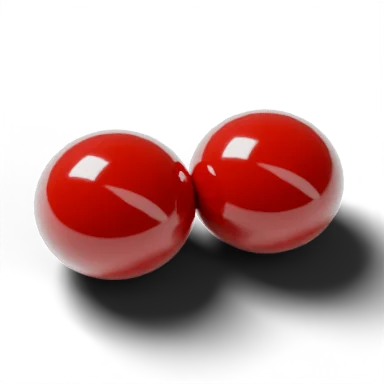
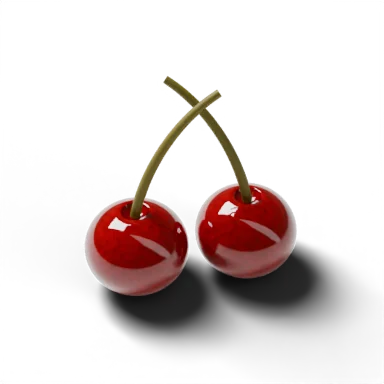
Plätzchen-Simulator: draw icing, smooth glaze, piles stay on the cookie
- icing and chocolate glaze are piped with the finger (tap to switch on, or drag up
  from the bar); the line sticks to the cookie and toppings, not to the paper
- the glaze is built on a 0.5 mm grid with a rounded rim and a levelled top
- toppings drop closer together and moving pieces are nudged towards the middle
- glacé cherries: deeper colour and a stalk; googly eyes and tinsel removed

Claude-Session: https://claude.ai/code/session_01TpW8y2zVzk7uDm7xWED879

diff --git a/plaetzchen/game.js b/plaetzchen/game.js
@@ -5,6 +5,7 @@ import * as THREE from 'three';
 import { GLTFLoader } from 'three/addons/loaders/GLTFLoader.js';
 import { OrbitControls } from 'three/addons/controls/OrbitControls.js';
 import { RoomEnvironment } from 'three/addons/environments/RoomEnvironment.js';
+import { mergeGeometries } from 'three/addons/utils/BufferGeometryUtils.js';
 import RAPIER from 'https://cdn.jsdelivr.net/npm/@dimforge/rapier3d-compat@0.14.0/rapier.es.js';
 import * as store from '../js/store.js';
 
@@ -27,7 +28,7 @@ const TXT = {
   yours: ['Dein Plätzchen', 'Your cookie'], post: ['An die Pinnwand', 'Pin it to the wall'], name: ['Dein Vorname', 'Your first name'],
   posted: ['Hängt an der Pinnwand', 'It’s on the wall'], no: ['Plätzchen Nr.', 'Cookie no.'], count: [n => `${n} Plätzchen bisher`, n => `${n} cookies so far`],
   empty: ['Noch keine Plätzchen. Deins wäre das erste.', 'No cookies yet. Yours could be the first.'], err: ['Hat nicht geklappt. Nochmal?', 'That didn’t work. Try again?'],
-  classic: ['Klassisch', 'Classic'], glaze: ['Welche Glasur?', 'Which glaze?'], none: ['Ohne', 'None'], lila: ['Lila', 'Lilac'], weiss: ['Weiß', 'White'], rosa: ['Rosa', 'Pink'], schoko: ['Schoko', 'Chocolate'], schwarz: ['Schwarz', 'Black'], weird: ['Schräg', 'Weird'], sending: ['Wird aufgehängt …', 'Pinning …'],
+  classic: ['Klassisch', 'Classic'], draw: ['Guss mit dem Finger zeichnen. Nochmal antippen zum Beenden.', 'Draw icing with your finger. Tap it again to stop.'], glaze: ['Welche Glasur?', 'Which glaze?'], none: ['Ohne', 'None'], lila: ['Lila', 'Lilac'], weiss: ['Weiß', 'White'], rosa: ['Rosa', 'Pink'], schoko: ['Schoko', 'Chocolate'], schwarz: ['Schwarz', 'Black'], weird: ['Schräg', 'Weird'], sending: ['Wird aufgehängt …', 'Pinning …'],
 };
 const t = (k, ...a) => { const v = TXT[k][EN ? 1 : 0]; return typeof v === 'function' ? v(...a) : v; };
 document.documentElement.lang = EN ? 'en' : 'de';
@@ -140,11 +141,12 @@ function makeObj(p) { const o = p.node.clone(); o.scale.setScalar(S); o.quaterni
 const N = 200, C = 0.1, X0 = -(N - 1) * C / 2;            // 20 × 20 cm around the middle
 const gx = i => X0 + i * C, cellOf = v => Math.round((v - X0) / C);
 const cookieH = new Float32Array(N * N), staticH = new Float32Array(N * N);
-let field = null, frost = null, staticTop = 0;
+let field = null, frost = null, staticTop = 0, cookieR = 0;
 const liquids = [];                                       // { mesh, ks, top, frozen, anim }
 const _a = new THREE.Vector3(), _b = new THREE.Vector3(), _c = new THREE.Vector3();
 // Highest point of a mesh in every grid cell.
-function raster(obj, H) {
+const GRID = { x0: X0, z0: X0, c: C, nx: N, nz: N };
+function raster(obj, H, g = GRID) {
   obj.updateMatrixWorld(true);
   obj.traverse(m => {
     if (!m.isMesh || m.isInstancedMesh) return;
@@ -154,13 +156,13 @@ function raster(obj, H) {
       _b.fromBufferAttribute(pos, ix ? ix.getX(t + 1) : t + 1).applyMatrix4(m.matrixWorld);
       _c.fromBufferAttribute(pos, ix ? ix.getX(t + 2) : t + 2).applyMatrix4(m.matrixWorld);
       const d = (_b.z - _c.z) * (_a.x - _c.x) + (_c.x - _b.x) * (_a.z - _c.z); if (Math.abs(d) < 1e-9) continue;
-      const i0 = Math.max(0, Math.ceil((Math.min(_a.x, _b.x, _c.x) - X0) / C)), i1 = Math.min(N - 1, Math.floor((Math.max(_a.x, _b.x, _c.x) - X0) / C));
-      const j0 = Math.max(0, Math.ceil((Math.min(_a.z, _b.z, _c.z) - X0) / C)), j1 = Math.min(N - 1, Math.floor((Math.max(_a.z, _b.z, _c.z) - X0) / C));
+      const i0 = Math.max(0, Math.ceil((Math.min(_a.x, _b.x, _c.x) - g.x0) / g.c)), i1 = Math.min(g.nx - 1, Math.floor((Math.max(_a.x, _b.x, _c.x) - g.x0) / g.c));
+      const j0 = Math.max(0, Math.ceil((Math.min(_a.z, _b.z, _c.z) - g.z0) / g.c)), j1 = Math.min(g.nz - 1, Math.floor((Math.max(_a.z, _b.z, _c.z) - g.z0) / g.c));
       for (let i = i0; i <= i1; i++) for (let j = j0; j <= j1; j++) {
-        const x = gx(i), z = gx(j);
+        const x = g.x0 + i * g.c, z = g.z0 + j * g.c;
         const w1 = ((_b.z - _c.z) * (x - _c.x) + (_c.x - _b.x) * (z - _c.z)) / d, w2 = ((_c.z - _a.z) * (x - _c.x) + (_a.x - _c.x) * (z - _c.z)) / d, w3 = 1 - w1 - w2;
         if (w1 < -1e-4 || w2 < -1e-4 || w3 < -1e-4) continue;
-        const y = w1 * _a.y + w2 * _b.y + w3 * _c.y, k = i * N + j; if (y > H[k]) H[k] = y;
+        const y = w1 * _a.y + w2 * _b.y + w3 * _c.y, k = i * g.nz + j; if (y > H[k]) H[k] = y;
       }
     }
   });
@@ -201,7 +203,7 @@ function sheet(i0, i1, j0, j1, base, mat) {
   };
   return s;
 }
-const glossy = col => new THREE.MeshPhysicalMaterial({ color: col, roughness: .26, clearcoat: .7, clearcoatRoughness: .25, sheen: .3, sheenColor: new THREE.Color(0xffffff) });
+const glossy = col => new THREE.MeshPhysicalMaterial({ color: col, roughness: .3, clearcoat: .6, clearcoatRoughness: .3 });
 
 // ---------- the cookie and its glaze ----------
 async function setCookie(id) {
@@ -211,91 +213,126 @@ async function setCookie(id) {
   const b = new THREE.Box3().setFromObject(obj); obj.position.set(-(b.min.x + b.max.x) / 2, -b.min.y + 0.02, -(b.min.z + b.max.z) / 2); obj.updateMatrixWorld(true);
   cookieH.fill(0); raster(obj, cookieH);
   cookie = { obj }; rebuildStatic(); stackTop = staticTop;
+  const bb = new THREE.Box3().setFromObject(obj); cookieR = Math.max(bb.max.x - bb.min.x, bb.max.z - bb.min.z) / 2;
   goView('angle');
 }
 const GLAZES = [['none', null], ['lila', '#B78CFF'], ['weiss', '#F4F0E8'], ['rosa', '#F3B4C8'], ['schoko', '#3E2214'], ['schwarz', '#151515']];
+// The glaze is built on its own fine grid (0.5 mm), so the rim is smooth and rounded like real icing,
+// and its top is levelled instead of following every bump of the dough.
 function setGlaze(col) {
-  if (frost) { scene.remove(frost.mesh); frost = null; }
-  if (col) {
-    let top = 0; for (const v of cookieH) if (v > top) top = v;
-    // the flat top of the cookie, and how far each cell is from its edge (in cells)
-    const inside = new Uint8Array(N * N), dist = new Float32Array(N * N).fill(1e9);
-    let i0 = N, i1 = 0, j0 = N, j1 = 0;
-    for (let i = 0; i < N; i++) for (let j = 0; j < N; j++) {
-      const k = i * N + j; if (cookieH[k] > top - 0.3 && cookieH[k] > 0.1) { inside[k] = 1; i0 = Math.min(i0, i); i1 = Math.max(i1, i); j0 = Math.min(j0, j); j1 = Math.max(j1, j); } else dist[k] = 0;
+  if (frost) { scene.remove(frost.mesh); frost.mesh.geometry.dispose(); frost = null; }
+  if (col && cookie) {
+    const bb = new THREE.Box3().setFromObject(cookie.obj), FC = 0.05;
+    const g = { x0: bb.min.x - 0.3, z0: bb.min.z - 0.3, c: FC, nx: Math.ceil((bb.max.x - bb.min.x + 0.6) / FC) + 1, nz: Math.ceil((bb.max.z - bb.min.z + 0.6) / FC) + 1 };
+    const nx = g.nx, nz = g.nz, n = nx * nz, H = new Float32Array(n); raster(cookie.obj, H, g);
+    let top = 0; for (const v of H) if (v > top) top = v;
+    const ins = new Uint8Array(n), dist = new Float32Array(n);
+    for (let k = 0; k < n; k++) { ins[k] = H[k] > top - 0.3 && H[k] > 0.1; dist[k] = ins[k] ? 1e9 : 0; }
+    for (let pass = 0; pass < 2; pass++) for (let a = 1; a < nx - 1; a++) for (let b = 1; b < nz - 1; b++) {   // distance to the rim, in cells
+      const i = pass ? nx - 1 - a : a, j = pass ? nz - 1 - b : b, k = i * nz + j, s = pass ? 1 : -1;
+      dist[k] = Math.min(dist[k], dist[(i + s) * nz + j] + 1, dist[i * nz + j + s] + 1, dist[(i + s) * nz + j + s] + 1.414, dist[(i + s) * nz + j - s] + 1.414);
     }
-    for (let pass = 0; pass < 2; pass++) for (let i = 1; i < N - 1; i++) for (let j = 1; j < N - 1; j++) {   // two-pass distance
-      const ii = pass ? N - 1 - i : i, jj = pass ? N - 1 - j : j, k = ii * N + jj, s = pass ? 1 : -1;
-      dist[k] = Math.min(dist[k], dist[(ii + s) * N + jj] + 1, dist[ii * N + jj + s] + 1, dist[(ii + s) * N + jj + s] + 1.414, dist[(ii + s) * N + jj - s] + 1.414);
+    // a levelled base: the dough smoothed over ~3 mm
+    const blur = (src, r) => { let A = src;
+      for (const dir of [0, 1]) { const B = new Float32Array(n);
+        for (let i = 0; i < nx; i++) for (let j = 0; j < nz; j++) { let s = 0, c = 0;
+          for (let d = -r; d <= r; d++) { const ii = dir ? i : i + d, jj = dir ? j + d : j; if (ii < 0 || jj < 0 || ii >= nx || jj >= nz) continue; const k = ii * nz + jj; if (!ins[k]) continue; s += A[k]; c++; }
+          B[i * nz + j] = c ? s / c : A[i * nz + j]; }
+        A = B; } return A; };
+    const base = blur(blur(H, 6), 6);
+    const T = 0.16, E = 0.28, th = new Float32Array(n);
+    for (let k = 0; k < n; k++) { const d = dist[k] * FC - 0.03; th[k] = !ins[k] || d <= 0 ? 0 : T * Math.sqrt(1 - (1 - Math.min(1, d / E)) ** 2); }
+    const pos = new Float32Array(n * 3), keep = new Uint8Array(n);
+    for (let i = 0; i < nx; i++) for (let j = 0; j < nz; j++) {
+      const k = i * nz + j; pos[k * 3] = g.x0 + i * FC; pos[k * 3 + 2] = g.z0 + j * FC;
+      if (th[k] > 0) { keep[k] = 1; pos[k * 3 + 1] = Math.max(base[k], H[k]) + th[k]; continue; }
+      let hi = H[k]; for (let da = -1; da <= 1; da++) for (let db = -1; db <= 1; db++) { const ii = i + da, jj = j + db; if (ii >= 0 && jj >= 0 && ii < nx && jj < nz && th[ii * nz + jj] > 0) hi = Math.max(hi, base[ii * nz + jj], H[ii * nz + jj]); }
+      pos[k * 3 + 1] = hi - 0.03;
     }
-    const T = 0.15, th = (i, j) => { const d = dist[i * N + j]; return d <= 0.5 ? 0 : T * Math.min(1, (d - 0.5) / 4) ** 0.45; };
-    const s = sheet(Math.max(0, i0 - 1), Math.min(N - 1, i1 + 1), Math.max(0, j0 - 1), Math.min(N - 1, j1 + 1), cookieH, glossy(col));
-    s.shape(th); scene.add(s.mesh);
+    const idx = [];
+    for (let i = 0; i < nx - 1; i++) for (let j = 0; j < nz - 1; j++) {
+      const v = i * nz + j, q = [v, v + 1, v + nz, v + nz + 1];
+      if (q.some(x => keep[x])) idx.push(v, v + 1, v + nz, v + 1, v + nz + 1, v + nz);
+    }
+    const geo = new THREE.BufferGeometry(); geo.setAttribute('position', new THREE.BufferAttribute(pos, 3)); geo.setIndex(idx); geo.computeVertexNormals();
+    const mesh = new THREE.Mesh(geo, glossy(col)); mesh.castShadow = mesh.receiveShadow = true; scene.add(mesh);
+    // the same surface on the coarse physics grid
     const ks = [], tp = [];
-    for (let i = i0; i <= i1; i++) for (let j = j0; j <= j1; j++) { const t = th(i, j); if (t > 0) { ks.push(i * N + j); tp.push(cookieH[i * N + j] + t); } }
-    frost = { mesh: s.mesh, ks: Int32Array.from(ks), top: Float32Array.from(tp) };
+    for (let i = 0; i < N; i++) for (let j = 0; j < N; j++) {
+      const fi = Math.round((gx(i) - g.x0) / FC), fj = Math.round((gx(j) - g.z0) / FC);
+      if (fi < 0 || fj < 0 || fi >= nx || fj >= nz) continue; const k = fi * nz + fj;
+      if (th[k] > 0) { ks.push(i * N + j); tp.push(pos[k * 3 + 1]); }
+    }
+    frost = { mesh, ks: Int32Array.from(ks), top: Float32Array.from(tp) };
   }
   rebuildStatic();
 }
 function clearAll() {
   while (drops.length) undo(true);
   if (frost) { scene.remove(frost.mesh); frost = null; }
-  if (cookie) { scene.remove(cookie.obj); cookie = null; }
+  if (cookie) { scene.remove(cookie.obj); cookie = null; } cookieR = 0; setPen(null);
   cookieH.fill(0); rebuildStatic(); stackTop = 1; $('#undo').disabled = true;
 }
 
-// ---------- pouring: icing and chocolate run over whatever is there ----------
-const LIQUID = { 'guss-lila': ['#B78CFF', 1.8, .22], 'guss-weiss': ['#F4F0E8', 1.8, .22], schoko: ['#3B1F12', 2.2, .16] };
-function pour(id, at) {
-  const [col, R, T] = LIQUID[id], ci = cellOf(at.x), cj = cellOf(at.z), rc = Math.ceil(R * 1.4 / C);
-  const i0 = Math.max(0, ci - rc), i1 = Math.min(N - 1, ci + rc), j0 = Math.max(0, cj - rc), j1 = Math.min(N - 1, cj + rc);
-  // what it runs over: the cookie and glaze, plus every topping lying in the way
-  const base = staticH.slice(), near = live.filter(l => Math.hypot(l.obj.position.x - at.x, l.obj.position.z - at.z) < R * 1.6);
-  near.forEach(l => raster(l.obj, base));
-  // Liquid does not climb into every gap: it lies over things like a soft blanket (widen, then smooth).
-  const W = i1 - i0 + 1, Hh = j1 - j0 + 1, at2 = (a, b) => (i0 + a) * N + (j0 + b);
-  let A = new Float32Array(W * Hh); for (let a = 0; a < W; a++) for (let b = 0; b < Hh; b++) A[a * Hh + b] = base[at2(a, b)];
-  const pass = (src, r, fn) => { const out = new Float32Array(src.length); for (let a = 0; a < W; a++) for (let b = 0; b < Hh; b++) {
-    let m = fn === 'max' ? -1e9 : 0, n = 0;
-    for (let da = -r; da <= r; da++) for (let db = -r; db <= r; db++) { const x = a + da, y = b + db; if (x < 0 || y < 0 || x >= W || y >= Hh) continue; const v = src[x * Hh + y]; if (fn === 'max') m = Math.max(m, v); else { m += v; n++; } }
-    out[a * Hh + b] = fn === 'max' ? m : m / n; } return out; };
-  A = pass(pass(pass(A, 3, 'max'), 3, 'avg'), 3, 'avg');
-  for (let a = 0; a < W; a++) for (let b = 0; b < Hh; b++) { const k = at2(a, b); base[k] = Math.max(base[k], A[a * Hh + b]); }
-  const p1 = Math.random() * 6, p2 = Math.random() * 6, p3 = Math.random() * 6;
-  const rim = a => R * (1 + .13 * Math.sin(3 * a + p1) + .08 * Math.sin(5 * a + p2) + .05 * Math.sin(8 * a + p3));
-  const th = g => (i, j) => {
-    const dx = gx(i) - at.x, dz = gx(j) - at.z, r = rim(Math.atan2(dz, dx)) * g, d = Math.hypot(dx, dz);
-    if (d >= r) return 0; const u = 1 - (d / r) ** 2; return T * Math.pow(u, .3) * (0.55 + 0.45 * g);
-  };
-  const s = sheet(i0, i1, j0, j1, base, glossy(col)); s.shape(th(.05)); scene.add(s.mesh);
-  const L = { mesh: s.mesh, ks: null, top: null, frozen: [], near };
-  L.anim = { t0: performance.now(), step: g => s.shape(th(g)), done: () => {
-    const ks = [], tp = [], f = th(1);
-    for (let i = i0; i <= i1; i++) for (let j = j0; j <= j1; j++) { const t = f(i, j); if (t > 0) { ks.push(i * N + j); tp.push(base[i * N + j] + t); } }
-    L.ks = Int32Array.from(ks); L.top = Float32Array.from(tp);
-    // what is under the icing stays stuck in it
-    for (const l of near) if (l.body.isDynamic() && f(cellOf(l.obj.position.x), cellOf(l.obj.position.z)) > 0) { l.body.setBodyType(RAPIER.RigidBodyType.Fixed, false); L.frozen.push(l.body); }
-    rebuildStatic();
-  } };
-  liquids.push(L);
-  return L;
+// ---------- icing is drawn: a piped line that follows the finger over everything ----------
+const ICING = { 'guss-lila': ['#B78CFF', .19], 'guss-weiss': ['#F4F0E8', .19], schoko: ['#3B1F12', .16] };
+let stroke = null, pen = null;
+function strokeBegin(id) {
+  const [col, r] = ICING[id];
+  stroke = { id, r, pts: [], gap: false, mesh: new THREE.Mesh(new THREE.BufferGeometry(), glossy(col)) };
+  stroke.mesh.castShadow = stroke.mesh.receiveShadow = true; scene.add(stroke.mesh);
 }
-function runLiquids(now) {
-  for (const L of liquids) if (L.anim) {
-    const k = Math.min(1, (now - L.anim.t0) / 900), e = 1 - Math.pow(1 - k, 3);
-    L.anim.step(Math.max(.05, e));
-    if (k >= 1) { const a = L.anim; L.anim = null; a.done(); }
+function strokeAt(x, y) {
+  if (!stroke) return;
+  const p = surfaceAt(x, y, stroke.mesh); if (!p) return;
+  // icing only sticks to the cookie and what is on it; across the paper the line breaks and starts again
+  if (p.onPaper) { stroke.gap = true; return; }
+  if (stroke.gap && stroke.pts.length) { const id = stroke.id; strokeEnd(); strokeBegin(id); }
+  stroke.gap = false;
+  p.y += stroke.r * .5;
+  const last = stroke.pts[stroke.pts.length - 1];
+  if (last && last.distanceTo(p) < stroke.r * .7) return;
+  if (stroke.pts.length > 500) return;
+  stroke.pts.push(p);
+  const cap = q => new THREE.SphereGeometry(stroke.r, 16, 10).translate(q.x, q.y, q.z);
+  const pts = stroke.pts;
+  const g = pts.length < 2 ? cap(pts[0]) : mergeGeometries([new THREE.TubeGeometry(new THREE.CatmullRomCurve3(pts, false, 'centripetal'), Math.min(900, pts.length * 4), stroke.r, 12, false), cap(pts[0]), cap(pts[pts.length - 1])]);
+  stroke.mesh.geometry.dispose(); stroke.mesh.geometry = g;
+}
+function strokeEnd() {
+  const s = stroke; stroke = null; if (!s) return;
+  if (!s.pts.length) { scene.remove(s.mesh); return; }
+  // what lies under the icing stays stuck in it
+  const frozen = [];
+  for (const l of live) {
+    if (!l.body.isDynamic()) continue; const b = l.obj.position;
+    if (s.pts.some(q => Math.hypot(q.x - b.x, q.z - b.z) < 0.8 && q.y > b.y)) { l.body.setBodyType(RAPIER.RigidBodyType.Fixed, false); frozen.push(l.body); }
   }
+  const tmp = staticH.slice(); raster(s.mesh, tmp);
+  const ks = [], tp = []; for (let k = 0; k < tmp.length; k++) if (tmp[k] > staticH[k] + 1e-4) { ks.push(k); tp.push(tmp[k]); }
+  const layer = { mesh: s.mesh, ks: Int32Array.from(ks), top: Float32Array.from(tp), frozen };
+  liquids.push(layer); drops.push({ bodies: [], objs: [], liquid: layer }); afterDrop(); rebuildStatic();
 }
+// Tapping an icing turns the finger into a piping bag until it is tapped again.
+function setPen(id) {
+  pen = id; controls.enabled = !pen;
+  document.querySelectorAll('.item').forEach(el => el.classList.toggle('on', el.dataset.id === pen));
+  const h = $('#hint'); h.textContent = pen ? t('draw') : t('hint'); h.classList.toggle('off', !pen && drops.length > 0);
+}
+canvas.addEventListener('pointerdown', e => { if (!pen) return; canvas.setPointerCapture(e.pointerId); strokeBegin(pen); strokeAt(e.clientX, e.clientY); });
+canvas.addEventListener('pointermove', e => { if (pen && stroke) strokeAt(e.clientX, e.clientY); });
+canvas.addEventListener('pointerup', () => { if (pen) strokeEnd(); });
+canvas.addEventListener('pointercancel', () => { if (pen) strokeEnd(); });
 
 // ---------- dropping toppings ----------
 const ray = new THREE.Raycaster(), ndc = new THREE.Vector2();
-const BOUNCE = { perlen: .25, linsen: .12, streusel: .08, hagel: .12, kirschen: .2, goldsterne: .05, kaffee: .1, popcorn: .08 };
+const BOUNCE = { perlen: .1, linsen: .04, kirschen: .06, kaffee: .03 };
 const solids = () => [...(cookie ? [cookie.obj] : []), ...(frost ? [frost.mesh] : []), ...liquids.map(l => l.mesh), ...live.map(l => l.obj), paper];
-function surfaceAt(x, y) {   // the first thing under the pointer: topping, icing, cookie or paper
+function surfaceAt(x, y, skip) {   // the first thing under the pointer: topping, icing, cookie or paper
   const r = canvas.getBoundingClientRect(); ndc.set((x - r.left) / r.width * 2 - 1, -((y - r.top) / r.height) * 2 + 1);
   ray.setFromCamera(ndc, camera);
-  const hit = ray.intersectObjects(solids(), true)[0];
+  const hit = ray.intersectObjects(solids().filter(o => o !== skip), true)[0];
+  if (hit) hit.point.onPaper = hit.object === paper;
   return hit ? hit.point : null;
 }
 function surfaceBelow(x, z) {
@@ -321,19 +358,18 @@ const gauss = () => Math.sqrt(-2 * Math.log(Math.random() + 1e-9)) * Math.cos(2 
 
 async function drop(id, at, yaw = Math.random() * Math.PI * 2) {
   if (id === 'puder') { drops.push({ bodies: [], objs: [dust(at)] }); afterDrop(); return; }
-  if (LIQUID[id]) { drops.push({ bodies: [], objs: [], liquid: pour(id, at) }); afterDrop(); return; }
   const m = await loadModel(id), R = new THREE.Quaternion().setFromAxisAngle(new THREE.Vector3(0, 1, 0), yaw);
   const bodies = [], objs = [], scatter = m.pieces.length > 1;
   for (const p of pickPieces(m)) {
     const rel = p.at.clone().sub(m.center); rel.applyQuaternion(R);
-    if (scatter) rel.x *= .8, rel.z *= .8;
-    const pos = at.clone().add(rel).add(new THREE.Vector3(0, 1.6 + (scatter ? Math.random() * 1.2 : 0), 0)), q = R.clone().multiply(p.q);
+    if (scatter) rel.x *= .55, rel.z *= .55;
+    const pos = at.clone().add(rel).add(new THREE.Vector3(0, 1.1 + (scatter ? Math.random() * .8 : 0), 0)), q = R.clone().multiply(p.q);
     const body = world.createRigidBody(RAPIER.RigidBodyDesc.dynamic().setTranslation(pos.x, pos.y, pos.z).setRotation(q)
-      .setLinvel((Math.random() - .5) * (scatter ? 6 : 0), -25, (Math.random() - .5) * (scatter ? 6 : 0)).setAngularDamping(scatter ? 1 : 2).setLinearDamping(.4).setCcdEnabled(true));
+      .setLinvel((Math.random() - .5) * (scatter ? 2 : 0), -20, (Math.random() - .5) * (scatter ? 2 : 0)).setAngularDamping(scatter ? 1.5 : 3).setLinearDamping(.6).setCcdEnabled(true));
     const sz = p.box.getSize(new THREE.Vector3()), mx = Math.max(sz.x, sz.y, sz.z), mn = Math.min(sz.x, sz.y, sz.z);
     let cd = mn > mx * .85 ? RAPIER.ColliderDesc.ball(mx / 2) : (p.pts.length >= 12 ? RAPIER.ColliderDesc.convexHull(p.pts) : null);
     if (!cd) cd = RAPIER.ColliderDesc.cuboid(Math.max(sz.x / 2, .05), Math.max(sz.y / 2, .05), Math.max(sz.z / 2, .05));
-    world.createCollider(cd.setFriction(1.1).setRestitution(BOUNCE[id] ?? .04).setDensity(1), body);
+    world.createCollider(cd.setFriction(1.4).setRestitution(BOUNCE[id] ?? .02).setDensity(1), body);
     const obj = makeObj(p); obj.position.copy(pos); obj.quaternion.copy(q); scene.add(obj);
     bodies.push(body); objs.push(obj); live.push({ body, obj, calm: 0 });
   }
@@ -373,25 +409,33 @@ addEventListener('pointermove', e => {
   if (!drag) return;
   const dx = e.clientX - drag.x0, dy = e.clientY - drag.y0;
   if (!drag.mode) {
-    if (dy < -8 && Math.abs(dy) > Math.abs(dx)) { drag.mode = 'drag'; drag.el.classList.add('held'); controls.enabled = false; startGhost(drag.id); }
+    if (dy < -8 && Math.abs(dy) > Math.abs(dx) && ICING[drag.id]) { drag.mode = 'pipe'; drag.el.classList.add('held'); setPen(null); controls.enabled = false; }
+    else if (dy < -8 && Math.abs(dy) > Math.abs(dx)) { drag.mode = 'drag'; drag.el.classList.add('held'); controls.enabled = false; startGhost(drag.id); }
     else if (Math.abs(dx) > 8) drag.mode = 'scroll';
   }
   if (drag.mode === 'scroll' && drag.type === 'mouse') strip.scrollLeft = drag.sl - dx;
   if (drag.mode === 'drag') moveGhost(e.clientX, e.clientY);
+  if (drag.mode === 'pipe') {   // dragged up out of the bar: piping starts once the finger is over the stage
+    const r = stageEl.getBoundingClientRect();
+    if (e.clientY < r.bottom - 4) { if (!stroke) strokeBegin(drag.id); strokeAt(e.clientX, e.clientY); }
+  }
 });
 addEventListener('pointerup', e => {
   if (!drag) return;
-  const d = drag; drag = null; d.el.classList.remove('held'); controls.enabled = true;
+  const d = drag; drag = null; d.el.classList.remove('held'); controls.enabled = !pen;
+  if (d.mode === 'pipe') { strokeEnd(); return; }
+  if (!d.mode && ICING[d.id]) { setPen(pen === d.id ? null : d.id); return; }
+  if (!d.mode && pen) setPen(null);
   if (d.mode === 'drag') { const at = ghost && ghost.visible && ghost.at; endGhost(); if (at) drop(d.id, at.clone(), ghost?.yaw); }
   else if (!d.mode) { const c = surfaceBelow((Math.random() - .5) * 2, (Math.random() - .5) * 2); drop(d.id, c); }
 });
-addEventListener('pointercancel', () => { if (drag) { drag.el.classList.remove('held'); drag = null; endGhost(); controls.enabled = true; } });
+addEventListener('pointercancel', () => { if (drag) { if (drag.mode === 'pipe') strokeEnd(); drag.el.classList.remove('held'); drag = null; endGhost(); controls.enabled = !pen; } });
 const cookieMissing = () => !cookie;
 
 // While dragging, the topping hangs above the spot where it will land, with a small shadow on that spot.
 async function startGhost(id) {
   const token = {}; ghost = { token, group: null, at: null, yaw: Math.random() * Math.PI * 2, visible: false };
-  if (id === 'puder' || LIQUID[id]) { marker.scale.setScalar(LIQUID[id] ? LIQUID[id][1] : 2.4); return; }
+  if (id === 'puder') { marker.scale.setScalar(2.4); return; }
   marker.scale.setScalar(1);
   const m = await loadModel(id); if (!ghost || ghost.token !== token) return;
   const g = new THREE.Group(), R = new THREE.Quaternion().setFromAxisAngle(new THREE.Vector3(0, 1, 0), ghost.yaw);
@@ -472,7 +516,7 @@ $('#new').onclick = () => { photoMode(false); $('#shapes').hidden = false; };
 // ---------- menus from the model list ----------
 // The selection (the other models stay in the folder, unused).
 const PICKED = ['semikolon', 'stern', 'baum', 'herz', 'mond', 'mann', 'stern-schoko', 'guss-lila', 'guss-weiss', 'streusel', 'perlen', 'linsen', 'mandeln', 'kirschen',
-  'puder', 'hagel', 'schoko', 'goldsterne', 'gummibaer', 'popcorn', 'brezel', 'augen', 'kaffee', 'lametta', 'riesenstreusel'];
+  'puder', 'hagel', 'schoko', 'goldsterne', 'gummibaer', 'popcorn', 'brezel', 'kaffee', 'riesenstreusel'];
 const items = (await (await fetch(`${BASE}models/items.json`)).json()).filter(i => PICKED.includes(i.id));
 const name = it => EN ? it.en : it.de;
 const thumb = id => `${BASE}thumbs/${id}.webp`;
@@ -499,7 +543,6 @@ for (const grp of ['klassisch', 'schraeg']) {
 
 // ---------- loop ----------
 let last = performance.now(), acc = 0, frameNo = 0;
-window.__pz = { live };   // for tests
 function loop(now) {
   acc += Math.min(0.1, (now - last) / 1000); last = now;
   let n = 0; while (acc >= 1 / 120 && n++ < 6) { world.step(); acc -= 1 / 120; }
@@ -512,6 +555,11 @@ function loop(now) {
     // A piece that barely moves for half a second is put to sleep, so nothing keeps trembling.
     if (l.body.isDynamic() && !l.body.isSleeping()) {
       const v = l.body.linvel(), w = l.body.angvel();
+      // While something is still moving above the cookie, it is nudged towards the middle: piles grow up, not out.
+      const d = Math.hypot(p.x, p.z);
+      if (cookieR && p.y > 0.35 && d > 0.4 && d < cookieR + 1.5 && Math.hypot(v.x, v.y, v.z) > 0.6) {
+        const J = l.body.mass() * 160 / 60 * Math.min(1.5, d / cookieR); l.body.applyImpulse({ x: -p.x / d * J, y: 0, z: -p.z / d * J }, true);
+      }
       l.calm = (Math.hypot(v.x, v.y, v.z) < 1.5 && Math.hypot(w.x, w.y, w.z) < .6) ? l.calm + 1 : 0;
       if (l.calm > 30) { l.body.sleep(); l.calm = 0; }
     }
@@ -519,7 +567,7 @@ function loop(now) {
   stackTop = Math.max(cookie ? 1 : 0, top);
   // Lots of pieces: settled ones stop moving for good, so the phone keeps up (undo frees them again).
   if (++frameNo % 90 === 0 && live.length > 300) for (const l of live) if (l.body.isSleeping() && l.body.isDynamic()) { l.body.setBodyType(RAPIER.RigidBodyType.Fixed, false); parked.add(l.body); }
-  runLiquids(now); runTween(now); controls.update(); renderer.render(scene, camera);
+  runTween(now); controls.update(); renderer.render(scene, camera);
   requestAnimationFrame(loop);
 }
 resize(); goView('angle', true);

diff --git a/plaetzchen/game.css b/plaetzchen/game.css
@@ -43,6 +43,8 @@ h2{font-weight:900;font-stretch:150%;text-transform:uppercase;line-height:.95;ma
 .item img{width:100%;height:100%;object-fit:contain;pointer-events:none;-webkit-user-drag:none}
 .item:hover .disc{transform:translateY(-3px)}
 .item.held .disc{transform:scale(.9);opacity:.5}
+.item.on .disc{box-shadow:0 0 0 3px var(--lilac);transform:translateY(-4px)}
+.item.on{color:var(--lilac)}
 body.shooting .strip,body.shooting #done,body.shooting #undo{display:none}
 @media (min-width:900px){.item{width:92px}.item .disc{width:84px;height:84px}}
 

diff --git a/tools/cookie_assets.py b/tools/cookie_assets.py
@@ -203,8 +203,18 @@ def t_almond():
         o = sphere(0.009, (x, y, 0.0022), (1, .62, .27), m); o.rotation_euler.z = a
         bm = o.modifiers.new('t', 'SIMPLE_DEFORM'); bm.deform_method = 'TAPER'; bm.factor = .5; bm.deform_axis = 'X'; mark()
 def t_cherry():
-    m = mat('cherry', '#B0101A', .12, coat=1, sss=.3)
-    for x, y in ((-0.008, 0), (0.008, 0.004)): sphere(0.0085, (x, y, 0.0075), (1, 1, .88), m); mark()
+    # candied cherries: deep red, glassy, a dimple on top with a thin stalk
+    m = mat('cherry', '#7E0711', .06, coat=1, sss=.55, ramp=('#5E040C', '#B3101C', 18))
+    stalk = mat('stalk2', '#6E6A2E', .55, ramp=('#4F5A22', '#8A7A3C', 40))
+    for x, y, bend in ((-0.009, 0, 1), (0.009, 0.004, -1)):
+        o = sphere(0.0085, (x, y, 0.0078), (1, 1, .9), m, 48)
+        sm = o.modifiers.new('dimple', 'DISPLACE'); sm.strength = 0  # placeholder keeps stack simple
+        bpy.ops.mesh.primitive_uv_sphere_add(radius=0.0024, location=(x, y, 0.0078 + 0.0085 * .9 + 0.0006)); dim = bpy.context.object
+        b = o.modifiers.new('cut', 'BOOLEAN'); b.object = dim; b.operation = 'DIFFERENCE'
+        active(o); bpy.ops.object.modifier_apply(modifier='cut'); bpy.data.objects.remove(dim, do_unlink=True); smooth(o)
+        z0 = 0.0078 + 0.0085 * .9 - 0.0012
+        tube([(x, y, z0), (x + bend * 0.0015, y, z0 + 0.008), (x + bend * 0.006, y + 0.002, z0 + 0.016), (x + bend * 0.013, y + 0.004, z0 + 0.02)], 0.00075, stalk, [1.1, 1, .9, .8])
+        mark()
 def t_powder():
     bpy.ops.mesh.primitive_cone_add(vertices=64, radius1=0.022, depth=0.011, location=(0, 0, 0.0055)); o = bpy.context.object
     mod(o, 'SUBSURF', levels=3, render_levels=3); mod(o, 'DISPLACE', texture=clouds(0.004), strength=0.0012)
